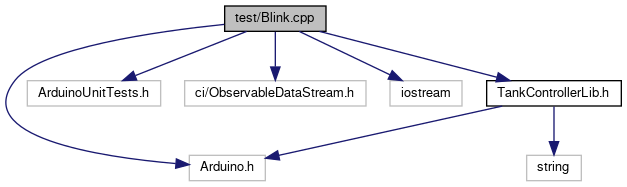
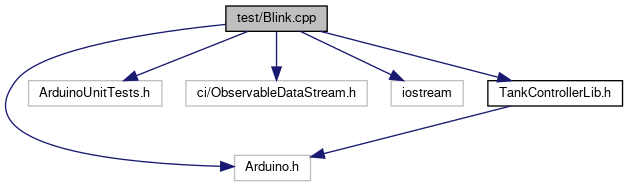
deploy: d337af90a0a18930b8e598829f15c8c1c02f8187

diff --git a/TankControllerLib_8h_source.html b/TankControllerLib_8h_source.html
@@ -72,37 +72,38 @@ $(function() {
 <div class="contents">
 <a href="TankControllerLib_8h.html">Go to the documentation of this file.</a><div class="fragment"><div class="line"><a name="l00001"></a><span class="lineno">    1</span>&#160;<span class="preprocessor">#pragma once</span></div>
 <div class="line"><a name="l00002"></a><span class="lineno">    2</span>&#160;<span class="preprocessor">#include &lt;Arduino.h&gt;</span></div>
-<div class="line"><a name="l00003"></a><span class="lineno">    3</span>&#160;<span class="preprocessor">#include &lt;string&gt;</span></div>
-<div class="line"><a name="l00004"></a><span class="lineno">    4</span>&#160; </div>
-<div class="line"><a name="l00005"></a><span class="lineno"><a class="line" href="TankControllerLib_8h.html#a1c6d5de492ac61ad29aec7aa9a436bbf">    5</a></span>&#160;<span class="preprocessor">#define VERSION &quot;0.3.0&quot;</span></div>
-<div class="line"><a name="l00006"></a><span class="lineno">    6</span>&#160; </div>
-<div class="line"><a name="l00007"></a><span class="lineno">    7</span>&#160;<span class="keyword">class </span><a class="code" href="classUIState.html">UIState</a>;</div>
-<div class="line"><a name="l00008"></a><span class="lineno"><a class="line" href="classTankControllerLib.html">    8</a></span>&#160;<span class="keyword">class </span><a class="code" href="classTankControllerLib.html">TankControllerLib</a> {</div>
-<div class="line"><a name="l00009"></a><span class="lineno">    9</span>&#160;<span class="keyword">public</span>:</div>
-<div class="line"><a name="l00010"></a><span class="lineno">   10</span>&#160;  <span class="keyword">static</span> <a class="code" href="classTankControllerLib.html">TankControllerLib</a>* <a class="code" href="classTankControllerLib.html#a287a4571ad0c8a9cbab60a3cc40f43b5">instance</a>();</div>
-<div class="line"><a name="l00011"></a><span class="lineno">   11</span>&#160;  <span class="keywordtype">void</span> <a class="code" href="classTankControllerLib.html#a0f09e0f0830a3c963a7a5f59f9696f51">setup</a>();</div>
-<div class="line"><a name="l00012"></a><span class="lineno">   12</span>&#160;  <span class="keywordtype">void</span> <a class="code" href="classTankControllerLib.html#a231e4bec233ac32a49745f4af710ffe3">loop</a>();</div>
-<div class="line"><a name="l00013"></a><span class="lineno"><a class="line" href="classTankControllerLib.html#a77f6fbf39e3cd906ac5aeec678826933">   13</a></span>&#160;  <span class="keyword">const</span> <span class="keywordtype">char</span>* <a class="code" href="classTankControllerLib.html#a77f6fbf39e3cd906ac5aeec678826933">version</a>() { <span class="keywordflow">return</span> <a class="code" href="TankControllerLib_8h.html#a1c6d5de492ac61ad29aec7aa9a436bbf">VERSION</a>; }</div>
-<div class="line"><a name="l00014"></a><span class="lineno">   14</span>&#160; </div>
-<div class="line"><a name="l00015"></a><span class="lineno">   15</span>&#160;<span class="keyword">protected</span>:</div>
-<div class="line"><a name="l00016"></a><span class="lineno">   16</span>&#160;  <a class="code" href="classTankControllerLib.html#a7e52554907b4441815af01b283f4b78d">TankControllerLib</a>();</div>
-<div class="line"><a name="l00017"></a><span class="lineno">   17</span>&#160;  <a class="code" href="classTankControllerLib.html#a99d78a90a4b6df7a9e2efc5dcc40c437">~TankControllerLib</a>();</div>
-<div class="line"><a name="l00018"></a><span class="lineno">   18</span>&#160; </div>
-<div class="line"><a name="l00019"></a><span class="lineno">   19</span>&#160;<span class="keyword">private</span>:</div>
-<div class="line"><a name="l00020"></a><span class="lineno"><a class="line" href="classTankControllerLib.html#adf7c80ee25b4c675db74bdddfb2eb7ad">   20</a></span>&#160;  <span class="keyword">friend</span> <span class="keyword">class </span><a class="code" href="classUIState.html">UIState</a>;</div>
-<div class="line"><a name="l00021"></a><span class="lineno">   21</span>&#160;  <span class="keywordtype">void</span> <a class="code" href="classTankControllerLib.html#a8be211379484e725d1bd58bed2e2c05f">changeState</a>(<a class="code" href="classUIState.html">UIState</a>* newState);</div>
-<div class="line"><a name="l00022"></a><span class="lineno"><a class="line" href="classTankControllerLib.html#ad25d907e4563baccf6449fc57108cec0">   22</a></span>&#160;  <a class="code" href="classUIState.html">UIState</a>* <a class="code" href="classTankControllerLib.html#ad25d907e4563baccf6449fc57108cec0">_state</a>;</div>
-<div class="line"><a name="l00023"></a><span class="lineno"><a class="line" href="classTankControllerLib.html#a9ed307a5bc670acdefa6faa2f6eb496c">   23</a></span>&#160;  <span class="keyword">static</span> <a class="code" href="classTankControllerLib.html">TankControllerLib</a>* <a class="code" href="classTankControllerLib.html#a9ed307a5bc670acdefa6faa2f6eb496c">_instance</a>;</div>
-<div class="line"><a name="l00024"></a><span class="lineno">   24</span>&#160;};</div>
+<div class="line"><a name="l00003"></a><span class="lineno">    3</span>&#160; </div>
+<div class="line"><a name="l00004"></a><span class="lineno"><a class="line" href="TankControllerLib_8h.html#a1c6d5de492ac61ad29aec7aa9a436bbf">    4</a></span>&#160;<span class="preprocessor">#define VERSION &quot;0.3.0&quot;</span></div>
+<div class="line"><a name="l00005"></a><span class="lineno">    5</span>&#160; </div>
+<div class="line"><a name="l00006"></a><span class="lineno">    6</span>&#160;<span class="keyword">class </span><a class="code" href="classUIState.html">UIState</a>;</div>
+<div class="line"><a name="l00007"></a><span class="lineno"><a class="line" href="classTankControllerLib.html">    7</a></span>&#160;<span class="keyword">class </span><a class="code" href="classTankControllerLib.html">TankControllerLib</a> {</div>
+<div class="line"><a name="l00008"></a><span class="lineno">    8</span>&#160;<span class="keyword">public</span>:</div>
+<div class="line"><a name="l00009"></a><span class="lineno">    9</span>&#160;  <span class="keyword">static</span> <a class="code" href="classTankControllerLib.html">TankControllerLib</a>* <a class="code" href="classTankControllerLib.html#a287a4571ad0c8a9cbab60a3cc40f43b5">instance</a>();</div>
+<div class="line"><a name="l00010"></a><span class="lineno">   10</span>&#160;  <span class="keywordtype">void</span> <a class="code" href="classTankControllerLib.html#a0f09e0f0830a3c963a7a5f59f9696f51">setup</a>();</div>
+<div class="line"><a name="l00011"></a><span class="lineno">   11</span>&#160;  <span class="keywordtype">void</span> <a class="code" href="classTankControllerLib.html#a231e4bec233ac32a49745f4af710ffe3">loop</a>();</div>
+<div class="line"><a name="l00012"></a><span class="lineno"><a class="line" href="classTankControllerLib.html#a77f6fbf39e3cd906ac5aeec678826933">   12</a></span>&#160;  <span class="keyword">const</span> <span class="keywordtype">char</span>* <a class="code" href="classTankControllerLib.html#a77f6fbf39e3cd906ac5aeec678826933">version</a>() {</div>
+<div class="line"><a name="l00013"></a><span class="lineno">   13</span>&#160;    <span class="keywordflow">return</span> <a class="code" href="TankControllerLib_8h.html#a1c6d5de492ac61ad29aec7aa9a436bbf">VERSION</a>;</div>
+<div class="line"><a name="l00014"></a><span class="lineno">   14</span>&#160;  }</div>
+<div class="line"><a name="l00015"></a><span class="lineno">   15</span>&#160; </div>
+<div class="line"><a name="l00016"></a><span class="lineno">   16</span>&#160;<span class="keyword">protected</span>:</div>
+<div class="line"><a name="l00017"></a><span class="lineno">   17</span>&#160;  <a class="code" href="classTankControllerLib.html#a7e52554907b4441815af01b283f4b78d">TankControllerLib</a>();</div>
+<div class="line"><a name="l00018"></a><span class="lineno">   18</span>&#160;  <a class="code" href="classTankControllerLib.html#a99d78a90a4b6df7a9e2efc5dcc40c437">~TankControllerLib</a>();</div>
+<div class="line"><a name="l00019"></a><span class="lineno">   19</span>&#160; </div>
+<div class="line"><a name="l00020"></a><span class="lineno">   20</span>&#160;<span class="keyword">private</span>:</div>
+<div class="line"><a name="l00021"></a><span class="lineno"><a class="line" href="classTankControllerLib.html#adf7c80ee25b4c675db74bdddfb2eb7ad">   21</a></span>&#160;  <span class="keyword">friend</span> <span class="keyword">class </span><a class="code" href="classUIState.html">UIState</a>;</div>
+<div class="line"><a name="l00022"></a><span class="lineno">   22</span>&#160;  <span class="keywordtype">void</span> <a class="code" href="classTankControllerLib.html#a8be211379484e725d1bd58bed2e2c05f">changeState</a>(<a class="code" href="classUIState.html">UIState</a>* newState);</div>
+<div class="line"><a name="l00023"></a><span class="lineno"><a class="line" href="classTankControllerLib.html#ad25d907e4563baccf6449fc57108cec0">   23</a></span>&#160;  <a class="code" href="classUIState.html">UIState</a>* <a class="code" href="classTankControllerLib.html#ad25d907e4563baccf6449fc57108cec0">_state</a>;</div>
+<div class="line"><a name="l00024"></a><span class="lineno"><a class="line" href="classTankControllerLib.html#a9ed307a5bc670acdefa6faa2f6eb496c">   24</a></span>&#160;  <span class="keyword">static</span> <a class="code" href="classTankControllerLib.html">TankControllerLib</a>* <a class="code" href="classTankControllerLib.html#a9ed307a5bc670acdefa6faa2f6eb496c">_instance</a>;</div>
+<div class="line"><a name="l00025"></a><span class="lineno">   25</span>&#160;};</div>
 </div><!-- fragment --></div><!-- contents -->
 <div class="ttc" id="aclassTankControllerLib_html_a8be211379484e725d1bd58bed2e2c05f"><div class="ttname"><a href="classTankControllerLib.html#a8be211379484e725d1bd58bed2e2c05f">TankControllerLib::changeState</a></div><div class="ttdeci">void changeState(UIState *newState)</div><div class="ttdef"><b>Definition:</b> <a href="TankControllerLib_8cpp_source.html#l00056">TankControllerLib.cpp:56</a></div></div>
 <div class="ttc" id="aclassTankControllerLib_html_a287a4571ad0c8a9cbab60a3cc40f43b5"><div class="ttname"><a href="classTankControllerLib.html#a287a4571ad0c8a9cbab60a3cc40f43b5">TankControllerLib::instance</a></div><div class="ttdeci">static TankControllerLib * instance()</div><div class="ttdef"><b>Definition:</b> <a href="TankControllerLib_8cpp_source.html#l00014">TankControllerLib.cpp:14</a></div></div>
-<div class="ttc" id="aclassTankControllerLib_html_a9ed307a5bc670acdefa6faa2f6eb496c"><div class="ttname"><a href="classTankControllerLib.html#a9ed307a5bc670acdefa6faa2f6eb496c">TankControllerLib::_instance</a></div><div class="ttdeci">static TankControllerLib * _instance</div><div class="ttdef"><b>Definition:</b> <a href="TankControllerLib_8h_source.html#l00023">TankControllerLib.h:23</a></div></div>
-<div class="ttc" id="aTankControllerLib_8h_html_a1c6d5de492ac61ad29aec7aa9a436bbf"><div class="ttname"><a href="TankControllerLib_8h.html#a1c6d5de492ac61ad29aec7aa9a436bbf">VERSION</a></div><div class="ttdeci">#define VERSION</div><div class="ttdef"><b>Definition:</b> <a href="TankControllerLib_8h_source.html#l00005">TankControllerLib.h:5</a></div></div>
-<div class="ttc" id="aclassTankControllerLib_html"><div class="ttname"><a href="classTankControllerLib.html">TankControllerLib</a></div><div class="ttdef"><b>Definition:</b> <a href="TankControllerLib_8h_source.html#l00008">TankControllerLib.h:8</a></div></div>
+<div class="ttc" id="aclassTankControllerLib_html_a9ed307a5bc670acdefa6faa2f6eb496c"><div class="ttname"><a href="classTankControllerLib.html#a9ed307a5bc670acdefa6faa2f6eb496c">TankControllerLib::_instance</a></div><div class="ttdeci">static TankControllerLib * _instance</div><div class="ttdef"><b>Definition:</b> <a href="TankControllerLib_8h_source.html#l00024">TankControllerLib.h:24</a></div></div>
+<div class="ttc" id="aTankControllerLib_8h_html_a1c6d5de492ac61ad29aec7aa9a436bbf"><div class="ttname"><a href="TankControllerLib_8h.html#a1c6d5de492ac61ad29aec7aa9a436bbf">VERSION</a></div><div class="ttdeci">#define VERSION</div><div class="ttdef"><b>Definition:</b> <a href="TankControllerLib_8h_source.html#l00004">TankControllerLib.h:4</a></div></div>
+<div class="ttc" id="aclassTankControllerLib_html"><div class="ttname"><a href="classTankControllerLib.html">TankControllerLib</a></div><div class="ttdef"><b>Definition:</b> <a href="TankControllerLib_8h_source.html#l00007">TankControllerLib.h:7</a></div></div>
 <div class="ttc" id="aclassTankControllerLib_html_a0f09e0f0830a3c963a7a5f59f9696f51"><div class="ttname"><a href="classTankControllerLib.html#a0f09e0f0830a3c963a7a5f59f9696f51">TankControllerLib::setup</a></div><div class="ttdeci">void setup()</div><div class="ttdef"><b>Definition:</b> <a href="TankControllerLib_8cpp_source.html#l00032">TankControllerLib.cpp:32</a></div></div>
-<div class="ttc" id="aclassTankControllerLib_html_a77f6fbf39e3cd906ac5aeec678826933"><div class="ttname"><a href="classTankControllerLib.html#a77f6fbf39e3cd906ac5aeec678826933">TankControllerLib::version</a></div><div class="ttdeci">const char * version()</div><div class="ttdef"><b>Definition:</b> <a href="TankControllerLib_8h_source.html#l00013">TankControllerLib.h:13</a></div></div>
-<div class="ttc" id="aclassTankControllerLib_html_ad25d907e4563baccf6449fc57108cec0"><div class="ttname"><a href="classTankControllerLib.html#ad25d907e4563baccf6449fc57108cec0">TankControllerLib::_state</a></div><div class="ttdeci">UIState * _state</div><div class="ttdef"><b>Definition:</b> <a href="TankControllerLib_8h_source.html#l00022">TankControllerLib.h:22</a></div></div>
+<div class="ttc" id="aclassTankControllerLib_html_a77f6fbf39e3cd906ac5aeec678826933"><div class="ttname"><a href="classTankControllerLib.html#a77f6fbf39e3cd906ac5aeec678826933">TankControllerLib::version</a></div><div class="ttdeci">const char * version()</div><div class="ttdef"><b>Definition:</b> <a href="TankControllerLib_8h_source.html#l00012">TankControllerLib.h:12</a></div></div>
+<div class="ttc" id="aclassTankControllerLib_html_ad25d907e4563baccf6449fc57108cec0"><div class="ttname"><a href="classTankControllerLib.html#ad25d907e4563baccf6449fc57108cec0">TankControllerLib::_state</a></div><div class="ttdeci">UIState * _state</div><div class="ttdef"><b>Definition:</b> <a href="TankControllerLib_8h_source.html#l00023">TankControllerLib.h:23</a></div></div>
 <div class="ttc" id="aclassTankControllerLib_html_a231e4bec233ac32a49745f4af710ffe3"><div class="ttname"><a href="classTankControllerLib.html#a231e4bec233ac32a49745f4af710ffe3">TankControllerLib::loop</a></div><div class="ttdeci">void loop()</div><div class="ttdef"><b>Definition:</b> <a href="TankControllerLib_8cpp_source.html#l00046">TankControllerLib.cpp:46</a></div></div>
 <div class="ttc" id="aclassUIState_html"><div class="ttname"><a href="classUIState.html">UIState</a></div><div class="ttdef"><b>Definition:</b> <a href="UIState_8h_source.html#l00010">UIState.h:10</a></div></div>
 <div class="ttc" id="aclassTankControllerLib_html_a99d78a90a4b6df7a9e2efc5dcc40c437"><div class="ttname"><a href="classTankControllerLib.html#a99d78a90a4b6df7a9e2efc5dcc40c437">TankControllerLib::~TankControllerLib</a></div><div class="ttdeci">~TankControllerLib()</div><div class="ttdef"><b>Definition:</b> <a href="TankControllerLib_8cpp_source.html#l00026">TankControllerLib.cpp:26</a></div></div>

diff --git a/classTankControllerLib.html b/classTankControllerLib.html
@@ -130,7 +130,7 @@ Friends</h2></td></tr>
 </table>
 <a name="details" id="details"></a><h2 class="groupheader">Detailed Description</h2>
 <div class="textblock">
-<p class="definition">Definition at line <a class="el" href="TankControllerLib_8h_source.html#l00008">8</a> of file <a class="el" href="TankControllerLib_8h_source.html">TankControllerLib.h</a>.</p>
+<p class="definition">Definition at line <a class="el" href="TankControllerLib_8h_source.html#l00007">7</a> of file <a class="el" href="TankControllerLib_8h_source.html">TankControllerLib.h</a>.</p>
 </div><h2 class="groupheader">Constructor &amp; Destructor Documentation</h2>
 <a id="a7e52554907b4441815af01b283f4b78d"></a>
 <h2 class="memtitle"><span class="permalink"><a href="#a7e52554907b4441815af01b283f4b78d">&#9670;&nbsp;</a></span>TankControllerLib()</h2>
@@ -161,7 +161,7 @@ Friends</h2></td></tr>
 <div class="line"><a name="l00023"></a><span class="lineno">   23</span>&#160;  <a class="code" href="classTankControllerLib.html#ad25d907e4563baccf6449fc57108cec0">_state</a> = <span class="keyword">nullptr</span>;</div>
 <div class="line"><a name="l00024"></a><span class="lineno">   24</span>&#160;}</div>
 </div><!-- fragment -->
-<p class="reference">References <a class="el" href="TankControllerLib_8h_source.html#l00023">_instance</a>, <a class="el" href="TankControllerLib_8h_source.html#l00022">_state</a>, and <a class="el" href="TankControllerLib_8cpp_source.html#l00006">assert</a>.</p>
+<p class="reference">References <a class="el" href="TankControllerLib_8h_source.html#l00024">_instance</a>, <a class="el" href="TankControllerLib_8h_source.html#l00023">_state</a>, and <a class="el" href="TankControllerLib_8cpp_source.html#l00006">assert</a>.</p>
 
 <p class="reference">Referenced by <a class="el" href="TankControllerLib_8cpp_source.html#l00014">instance()</a>.</p>
 
@@ -197,7 +197,7 @@ Friends</h2></td></tr>
 <div class="line"><a name="l00029"></a><span class="lineno">   29</span>&#160;  <a class="code" href="classTankControllerLib.html#a9ed307a5bc670acdefa6faa2f6eb496c">_instance</a> = <span class="keyword">nullptr</span>;</div>
 <div class="line"><a name="l00030"></a><span class="lineno">   30</span>&#160;}</div>
 </div><!-- fragment -->
-<p class="reference">References <a class="el" href="TankControllerLib_8h_source.html#l00023">_instance</a>, <a class="el" href="TankControllerLib_8cpp_source.html#l00006">assert</a>, and <a class="el" href="TankControllerLib_8cpp_source.html#l00056">changeState()</a>.</p>
+<p class="reference">References <a class="el" href="TankControllerLib_8h_source.html#l00024">_instance</a>, <a class="el" href="TankControllerLib_8cpp_source.html#l00006">assert</a>, and <a class="el" href="TankControllerLib_8cpp_source.html#l00056">changeState()</a>.</p>
 
 </div>
 </div>
@@ -234,7 +234,7 @@ Friends</h2></td></tr>
 <div class="line"><a name="l00060"></a><span class="lineno">   60</span>&#160;  <a class="code" href="classTankControllerLib.html#ad25d907e4563baccf6449fc57108cec0">_state</a> = newState;</div>
 <div class="line"><a name="l00061"></a><span class="lineno">   61</span>&#160;}</div>
 </div><!-- fragment -->
-<p class="reference">References <a class="el" href="TankControllerLib_8h_source.html#l00022">_state</a>.</p>
+<p class="reference">References <a class="el" href="TankControllerLib_8h_source.html#l00023">_state</a>.</p>
 
 <p class="reference">Referenced by <a class="el" href="UIState_8h_source.html#l00019">UIState::changeState()</a>, <a class="el" href="TankControllerLib_8cpp_source.html#l00032">setup()</a>, and <a class="el" href="TankControllerLib_8cpp_source.html#l00026">~TankControllerLib()</a>.</p>
 
@@ -271,7 +271,7 @@ Friends</h2></td></tr>
 <div class="line"><a name="l00018"></a><span class="lineno">   18</span>&#160;  <span class="keywordflow">return</span> <a class="code" href="classTankControllerLib.html#a9ed307a5bc670acdefa6faa2f6eb496c">_instance</a>;</div>
 <div class="line"><a name="l00019"></a><span class="lineno">   19</span>&#160;}</div>
 </div><!-- fragment -->
-<p class="reference">References <a class="el" href="TankControllerLib_8h_source.html#l00023">_instance</a>, and <a class="el" href="TankControllerLib_8cpp_source.html#l00021">TankControllerLib()</a>.</p>
+<p class="reference">References <a class="el" href="TankControllerLib_8h_source.html#l00024">_instance</a>, and <a class="el" href="TankControllerLib_8cpp_source.html#l00021">TankControllerLib()</a>.</p>
 
 <p class="reference">Referenced by <a class="el" href="UIState_8h_source.html#l00019">UIState::changeState()</a>, and <a class="el" href="Blink_8cpp_source.html#l00040">unittest()</a>.</p>
 
@@ -303,7 +303,7 @@ Friends</h2></td></tr>
 <div class="line"><a name="l00053"></a><span class="lineno">   53</span>&#160;  }</div>
 <div class="line"><a name="l00054"></a><span class="lineno">   54</span>&#160;}</div>
 </div><!-- fragment -->
-<p class="reference">References <a class="el" href="TankControllerLib_8h_source.html#l00022">_state</a>, <a class="el" href="TankControllerLib_8cpp_source.html#l00037">blink()</a>, <a class="el" href="classUIState.html#ac53ca2b64f05c381f4d68f68fd60c91b">UIState::handleKey()</a>, and <a class="el" href="TankControllerLib_8cpp_source.html#l00045">NO_KEY</a>.</p>
+<p class="reference">References <a class="el" href="TankControllerLib_8h_source.html#l00023">_state</a>, <a class="el" href="TankControllerLib_8cpp_source.html#l00037">blink()</a>, <a class="el" href="classUIState.html#ac53ca2b64f05c381f4d68f68fd60c91b">UIState::handleKey()</a>, and <a class="el" href="TankControllerLib_8cpp_source.html#l00045">NO_KEY</a>.</p>
 
 <p class="reference">Referenced by <a class="el" href="Blink_8cpp_source.html#l00040">unittest()</a>.</p>
 
@@ -359,10 +359,12 @@ Friends</h2></td></tr>
 </table>
 </div><div class="memdoc">
 
-<p class="definition">Definition at line <a class="el" href="TankControllerLib_8h_source.html#l00013">13</a> of file <a class="el" href="TankControllerLib_8h_source.html">TankControllerLib.h</a>.</p>
-<div class="fragment"><div class="line"><a name="l00013"></a><span class="lineno">   13</span>&#160;{ <span class="keywordflow">return</span> <a class="code" href="TankControllerLib_8h.html#a1c6d5de492ac61ad29aec7aa9a436bbf">VERSION</a>; }</div>
+<p class="definition">Definition at line <a class="el" href="TankControllerLib_8h_source.html#l00012">12</a> of file <a class="el" href="TankControllerLib_8h_source.html">TankControllerLib.h</a>.</p>
+<div class="fragment"><div class="line"><a name="l00012"></a><span class="lineno">   12</span>&#160;                        {</div>
+<div class="line"><a name="l00013"></a><span class="lineno">   13</span>&#160;    <span class="keywordflow">return</span> <a class="code" href="TankControllerLib_8h.html#a1c6d5de492ac61ad29aec7aa9a436bbf">VERSION</a>;</div>
+<div class="line"><a name="l00014"></a><span class="lineno">   14</span>&#160;  }</div>
 </div><!-- fragment -->
-<p class="reference">References <a class="el" href="TankControllerLib_8h_source.html#l00005">VERSION</a>.</p>
+<p class="reference">References <a class="el" href="TankControllerLib_8h_source.html#l00004">VERSION</a>.</p>
 
 </div>
 </div>
@@ -387,7 +389,7 @@ Friends</h2></td></tr>
 </table>
 </div><div class="memdoc">
 
-<p class="definition">Definition at line <a class="el" href="TankControllerLib_8h_source.html#l00020">20</a> of file <a class="el" href="TankControllerLib_8h_source.html">TankControllerLib.h</a>.</p>
+<p class="definition">Definition at line <a class="el" href="TankControllerLib_8h_source.html#l00021">21</a> of file <a class="el" href="TankControllerLib_8h_source.html">TankControllerLib.h</a>.</p>
 
 </div>
 </div>
@@ -412,7 +414,7 @@ Friends</h2></td></tr>
 </table>
 </div><div class="memdoc">
 
-<p class="definition">Definition at line <a class="el" href="TankControllerLib_8h_source.html#l00023">23</a> of file <a class="el" href="TankControllerLib_8h_source.html">TankControllerLib.h</a>.</p>
+<p class="definition">Definition at line <a class="el" href="TankControllerLib_8h_source.html#l00024">24</a> of file <a class="el" href="TankControllerLib_8h_source.html">TankControllerLib.h</a>.</p>
 
 <p class="reference">Referenced by <a class="el" href="TankControllerLib_8cpp_source.html#l00014">instance()</a>, <a class="el" href="TankControllerLib_8cpp_source.html#l00021">TankControllerLib()</a>, and <a class="el" href="TankControllerLib_8cpp_source.html#l00026">~TankControllerLib()</a>.</p>
 
@@ -438,7 +440,7 @@ Friends</h2></td></tr>
 </table>
 </div><div class="memdoc">
 
-<p class="definition">Definition at line <a class="el" href="TankControllerLib_8h_source.html#l00022">22</a> of file <a class="el" href="TankControllerLib_8h_source.html">TankControllerLib.h</a>.</p>
+<p class="definition">Definition at line <a class="el" href="TankControllerLib_8h_source.html#l00023">23</a> of file <a class="el" href="TankControllerLib_8h_source.html">TankControllerLib.h</a>.</p>
 
 <p class="reference">Referenced by <a class="el" href="TankControllerLib_8cpp_source.html#l00056">changeState()</a>, <a class="el" href="TankControllerLib_8cpp_source.html#l00046">loop()</a>, and <a class="el" href="TankControllerLib_8cpp_source.html#l00021">TankControllerLib()</a>.</p>
 
@@ -450,12 +452,12 @@ Friends</h2></td></tr>
 </ul>
 </div><!-- contents -->
 <div class="ttc" id="aclassTankControllerLib_html_a8be211379484e725d1bd58bed2e2c05f"><div class="ttname"><a href="classTankControllerLib.html#a8be211379484e725d1bd58bed2e2c05f">TankControllerLib::changeState</a></div><div class="ttdeci">void changeState(UIState *newState)</div><div class="ttdef"><b>Definition:</b> <a href="TankControllerLib_8cpp_source.html#l00056">TankControllerLib.cpp:56</a></div></div>
-<div class="ttc" id="aclassTankControllerLib_html_a9ed307a5bc670acdefa6faa2f6eb496c"><div class="ttname"><a href="classTankControllerLib.html#a9ed307a5bc670acdefa6faa2f6eb496c">TankControllerLib::_instance</a></div><div class="ttdeci">static TankControllerLib * _instance</div><div class="ttdef"><b>Definition:</b> <a href="TankControllerLib_8h_source.html#l00023">TankControllerLib.h:23</a></div></div>
-<div class="ttc" id="aTankControllerLib_8h_html_a1c6d5de492ac61ad29aec7aa9a436bbf"><div class="ttname"><a href="TankControllerLib_8h.html#a1c6d5de492ac61ad29aec7aa9a436bbf">VERSION</a></div><div class="ttdeci">#define VERSION</div><div class="ttdef"><b>Definition:</b> <a href="TankControllerLib_8h_source.html#l00005">TankControllerLib.h:5</a></div></div>
+<div class="ttc" id="aclassTankControllerLib_html_a9ed307a5bc670acdefa6faa2f6eb496c"><div class="ttname"><a href="classTankControllerLib.html#a9ed307a5bc670acdefa6faa2f6eb496c">TankControllerLib::_instance</a></div><div class="ttdeci">static TankControllerLib * _instance</div><div class="ttdef"><b>Definition:</b> <a href="TankControllerLib_8h_source.html#l00024">TankControllerLib.h:24</a></div></div>
+<div class="ttc" id="aTankControllerLib_8h_html_a1c6d5de492ac61ad29aec7aa9a436bbf"><div class="ttname"><a href="TankControllerLib_8h.html#a1c6d5de492ac61ad29aec7aa9a436bbf">VERSION</a></div><div class="ttdeci">#define VERSION</div><div class="ttdef"><b>Definition:</b> <a href="TankControllerLib_8h_source.html#l00004">TankControllerLib.h:4</a></div></div>
 <div class="ttc" id="aTankControllerLib_8cpp_html_ae6b1e771ae3afc297ec85b5137b1bfb1"><div class="ttname"><a href="TankControllerLib_8cpp.html#ae6b1e771ae3afc297ec85b5137b1bfb1">NO_KEY</a></div><div class="ttdeci">#define NO_KEY</div><div class="ttdef"><b>Definition:</b> <a href="TankControllerLib_8cpp_source.html#l00045">TankControllerLib.cpp:45</a></div></div>
 <div class="ttc" id="aclassMainMenu_html"><div class="ttname"><a href="classMainMenu.html">MainMenu</a></div><div class="ttdef"><b>Definition:</b> <a href="MainMenu_8h_source.html#l00012">MainMenu.h:12</a></div></div>
 <div class="ttc" id="aclassUIState_html_ac53ca2b64f05c381f4d68f68fd60c91b"><div class="ttname"><a href="classUIState.html#ac53ca2b64f05c381f4d68f68fd60c91b">UIState::handleKey</a></div><div class="ttdeci">virtual void handleKey(char key)=0</div></div>
-<div class="ttc" id="aclassTankControllerLib_html_ad25d907e4563baccf6449fc57108cec0"><div class="ttname"><a href="classTankControllerLib.html#ad25d907e4563baccf6449fc57108cec0">TankControllerLib::_state</a></div><div class="ttdeci">UIState * _state</div><div class="ttdef"><b>Definition:</b> <a href="TankControllerLib_8h_source.html#l00022">TankControllerLib.h:22</a></div></div>
+<div class="ttc" id="aclassTankControllerLib_html_ad25d907e4563baccf6449fc57108cec0"><div class="ttname"><a href="classTankControllerLib.html#ad25d907e4563baccf6449fc57108cec0">TankControllerLib::_state</a></div><div class="ttdeci">UIState * _state</div><div class="ttdef"><b>Definition:</b> <a href="TankControllerLib_8h_source.html#l00023">TankControllerLib.h:23</a></div></div>
 <div class="ttc" id="aTankControllerLib_8cpp_html_a5664bd38fc668253a0152e6b319aafbb"><div class="ttname"><a href="TankControllerLib_8cpp.html#a5664bd38fc668253a0152e6b319aafbb">blink</a></div><div class="ttdeci">void blink()</div><div class="ttdef"><b>Definition:</b> <a href="TankControllerLib_8cpp_source.html#l00037">TankControllerLib.cpp:37</a></div></div>
 <div class="ttc" id="aTankControllerLib_8cpp_html_ae62a1773f22b7a2f5635c7497269cd39"><div class="ttname"><a href="TankControllerLib_8cpp.html#ae62a1773f22b7a2f5635c7497269cd39">assert</a></div><div class="ttdeci">#define assert(p)</div><div class="ttdef"><b>Definition:</b> <a href="TankControllerLib_8cpp_source.html#l00006">TankControllerLib.cpp:6</a></div></div>
 <div class="ttc" id="aclassUIState_html"><div class="ttname"><a href="classUIState.html">UIState</a></div><div class="ttdef"><b>Definition:</b> <a href="UIState_8h_source.html#l00010">UIState.h:10</a></div></div>

diff --git a/TankControllerLib_8cpp_source.html b/TankControllerLib_8cpp_source.html
@@ -134,16 +134,16 @@ $(function() {
 </div><!-- fragment --></div><!-- contents -->
 <div class="ttc" id="aclassTankControllerLib_html_a8be211379484e725d1bd58bed2e2c05f"><div class="ttname"><a href="classTankControllerLib.html#a8be211379484e725d1bd58bed2e2c05f">TankControllerLib::changeState</a></div><div class="ttdeci">void changeState(UIState *newState)</div><div class="ttdef"><b>Definition:</b> <a href="TankControllerLib_8cpp_source.html#l00056">TankControllerLib.cpp:56</a></div></div>
 <div class="ttc" id="aclassTankControllerLib_html_a287a4571ad0c8a9cbab60a3cc40f43b5"><div class="ttname"><a href="classTankControllerLib.html#a287a4571ad0c8a9cbab60a3cc40f43b5">TankControllerLib::instance</a></div><div class="ttdeci">static TankControllerLib * instance()</div><div class="ttdef"><b>Definition:</b> <a href="TankControllerLib_8cpp_source.html#l00014">TankControllerLib.cpp:14</a></div></div>
-<div class="ttc" id="aclassTankControllerLib_html_a9ed307a5bc670acdefa6faa2f6eb496c"><div class="ttname"><a href="classTankControllerLib.html#a9ed307a5bc670acdefa6faa2f6eb496c">TankControllerLib::_instance</a></div><div class="ttdeci">static TankControllerLib * _instance</div><div class="ttdef"><b>Definition:</b> <a href="TankControllerLib_8h_source.html#l00023">TankControllerLib.h:23</a></div></div>
+<div class="ttc" id="aclassTankControllerLib_html_a9ed307a5bc670acdefa6faa2f6eb496c"><div class="ttname"><a href="classTankControllerLib.html#a9ed307a5bc670acdefa6faa2f6eb496c">TankControllerLib::_instance</a></div><div class="ttdeci">static TankControllerLib * _instance</div><div class="ttdef"><b>Definition:</b> <a href="TankControllerLib_8h_source.html#l00024">TankControllerLib.h:24</a></div></div>
 <div class="ttc" id="aUIState_8h_html"><div class="ttname"><a href="UIState_8h.html">UIState.h</a></div></div>
 <div class="ttc" id="aMainMenu_8h_html"><div class="ttname"><a href="MainMenu_8h.html">MainMenu.h</a></div></div>
-<div class="ttc" id="aclassTankControllerLib_html"><div class="ttname"><a href="classTankControllerLib.html">TankControllerLib</a></div><div class="ttdef"><b>Definition:</b> <a href="TankControllerLib_8h_source.html#l00008">TankControllerLib.h:8</a></div></div>
+<div class="ttc" id="aclassTankControllerLib_html"><div class="ttname"><a href="classTankControllerLib.html">TankControllerLib</a></div><div class="ttdef"><b>Definition:</b> <a href="TankControllerLib_8h_source.html#l00007">TankControllerLib.h:7</a></div></div>
 <div class="ttc" id="aTankControllerLib_8h_html"><div class="ttname"><a href="TankControllerLib_8h.html">TankControllerLib.h</a></div></div>
 <div class="ttc" id="aclassTankControllerLib_html_a0f09e0f0830a3c963a7a5f59f9696f51"><div class="ttname"><a href="classTankControllerLib.html#a0f09e0f0830a3c963a7a5f59f9696f51">TankControllerLib::setup</a></div><div class="ttdeci">void setup()</div><div class="ttdef"><b>Definition:</b> <a href="TankControllerLib_8cpp_source.html#l00032">TankControllerLib.cpp:32</a></div></div>
 <div class="ttc" id="aTankControllerLib_8cpp_html_ae6b1e771ae3afc297ec85b5137b1bfb1"><div class="ttname"><a href="TankControllerLib_8cpp.html#ae6b1e771ae3afc297ec85b5137b1bfb1">NO_KEY</a></div><div class="ttdeci">#define NO_KEY</div><div class="ttdef"><b>Definition:</b> <a href="TankControllerLib_8cpp_source.html#l00045">TankControllerLib.cpp:45</a></div></div>
 <div class="ttc" id="aclassMainMenu_html"><div class="ttname"><a href="classMainMenu.html">MainMenu</a></div><div class="ttdef"><b>Definition:</b> <a href="MainMenu_8h_source.html#l00012">MainMenu.h:12</a></div></div>
 <div class="ttc" id="aclassUIState_html_ac53ca2b64f05c381f4d68f68fd60c91b"><div class="ttname"><a href="classUIState.html#ac53ca2b64f05c381f4d68f68fd60c91b">UIState::handleKey</a></div><div class="ttdeci">virtual void handleKey(char key)=0</div></div>
-<div class="ttc" id="aclassTankControllerLib_html_ad25d907e4563baccf6449fc57108cec0"><div class="ttname"><a href="classTankControllerLib.html#ad25d907e4563baccf6449fc57108cec0">TankControllerLib::_state</a></div><div class="ttdeci">UIState * _state</div><div class="ttdef"><b>Definition:</b> <a href="TankControllerLib_8h_source.html#l00022">TankControllerLib.h:22</a></div></div>
+<div class="ttc" id="aclassTankControllerLib_html_ad25d907e4563baccf6449fc57108cec0"><div class="ttname"><a href="classTankControllerLib.html#ad25d907e4563baccf6449fc57108cec0">TankControllerLib::_state</a></div><div class="ttdeci">UIState * _state</div><div class="ttdef"><b>Definition:</b> <a href="TankControllerLib_8h_source.html#l00023">TankControllerLib.h:23</a></div></div>
 <div class="ttc" id="aTankControllerLib_8cpp_html_a5664bd38fc668253a0152e6b319aafbb"><div class="ttname"><a href="TankControllerLib_8cpp.html#a5664bd38fc668253a0152e6b319aafbb">blink</a></div><div class="ttdeci">void blink()</div><div class="ttdef"><b>Definition:</b> <a href="TankControllerLib_8cpp_source.html#l00037">TankControllerLib.cpp:37</a></div></div>
 <div class="ttc" id="aclassTankControllerLib_html_a231e4bec233ac32a49745f4af710ffe3"><div class="ttname"><a href="classTankControllerLib.html#a231e4bec233ac32a49745f4af710ffe3">TankControllerLib::loop</a></div><div class="ttdeci">void loop()</div><div class="ttdef"><b>Definition:</b> <a href="TankControllerLib_8cpp_source.html#l00046">TankControllerLib.cpp:46</a></div></div>
 <div class="ttc" id="aTankControllerLib_8cpp_html_ae62a1773f22b7a2f5635c7497269cd39"><div class="ttname"><a href="TankControllerLib_8cpp.html#ae62a1773f22b7a2f5635c7497269cd39">assert</a></div><div class="ttdeci">#define assert(p)</div><div class="ttdef"><b>Definition:</b> <a href="TankControllerLib_8cpp_source.html#l00006">TankControllerLib.cpp:6</a></div></div>

diff --git a/Blink_8cpp.html b/Blink_8cpp.html
@@ -85,13 +85,12 @@ Include dependency graph for Blink.cpp:</div>
 <div class="dyncontent">
 <div class="center"><img src="Blink_8cpp__incl.png" border="0" usemap="#atest_2Blink_8cpp" alt=""/></div>
 <map name="test_2Blink_8cpp" id="atest_2Blink_8cpp">
-<area shape="rect" title=" " alt="" coords="225,5,326,32"/>
-<area shape="rect" title=" " alt="" coords="189,155,265,181"/>
-<area shape="rect" title=" " alt="" coords="27,80,161,107"/>
-<area shape="rect" title=" " alt="" coords="185,80,366,107"/>
-<area shape="rect" title=" " alt="" coords="390,80,462,107"/>
-<area shape="rect" href="TankControllerLib_8h.html" title=" " alt="" coords="487,80,621,107"/>
-<area shape="rect" title=" " alt="" coords="527,155,581,181"/>
+<area shape="rect" title=" " alt="" coords="226,5,327,32"/>
+<area shape="rect" title=" " alt="" coords="235,155,311,181"/>
+<area shape="rect" title=" " alt="" coords="29,80,162,107"/>
+<area shape="rect" title=" " alt="" coords="186,80,367,107"/>
+<area shape="rect" title=" " alt="" coords="391,80,463,107"/>
+<area shape="rect" href="TankControllerLib_8h.html" title=" " alt="" coords="488,80,623,107"/>
 </map>
 </div>
 </div>
@@ -326,7 +325,7 @@ Variables</h2></td></tr>
 <div class="ttc" id="aBlink_8cpp_html_a0376be5904d0dd864b7d97c9ce1295ab"><div class="ttname"><a href="Blink_8cpp.html#a0376be5904d0dd864b7d97c9ce1295ab">value</a></div><div class="ttdeci">bool value</div><div class="ttdef"><b>Definition:</b> <a href="Blink_8cpp_source.html#l00015">Blink.cpp:15</a></div></div>
 <div class="ttc" id="aclassTankControllerLib_html_a287a4571ad0c8a9cbab60a3cc40f43b5"><div class="ttname"><a href="classTankControllerLib.html#a287a4571ad0c8a9cbab60a3cc40f43b5">TankControllerLib::instance</a></div><div class="ttdeci">static TankControllerLib * instance()</div><div class="ttdef"><b>Definition:</b> <a href="TankControllerLib_8cpp_source.html#l00014">TankControllerLib.cpp:14</a></div></div>
 <div class="ttc" id="aBlink_8cpp_html_a43e5081a12570bf32bc5c52fff9abe24"><div class="ttname"><a href="Blink_8cpp.html#a43e5081a12570bf32bc5c52fff9abe24">overflowFlag</a></div><div class="ttdeci">bool overflowFlag</div><div class="ttdef"><b>Definition:</b> <a href="Blink_8cpp_source.html#l00018">Blink.cpp:18</a></div></div>
-<div class="ttc" id="aclassTankControllerLib_html"><div class="ttname"><a href="classTankControllerLib.html">TankControllerLib</a></div><div class="ttdef"><b>Definition:</b> <a href="TankControllerLib_8h_source.html#l00008">TankControllerLib.h:8</a></div></div>
+<div class="ttc" id="aclassTankControllerLib_html"><div class="ttname"><a href="classTankControllerLib.html">TankControllerLib</a></div><div class="ttdef"><b>Definition:</b> <a href="TankControllerLib_8h_source.html#l00007">TankControllerLib.h:7</a></div></div>
 <div class="ttc" id="aclassTankControllerLib_html_a0f09e0f0830a3c963a7a5f59f9696f51"><div class="ttname"><a href="classTankControllerLib.html#a0f09e0f0830a3c963a7a5f59f9696f51">TankControllerLib::setup</a></div><div class="ttdeci">void setup()</div><div class="ttdef"><b>Definition:</b> <a href="TankControllerLib_8cpp_source.html#l00032">TankControllerLib.cpp:32</a></div></div>
 <div class="ttc" id="aBlink_8cpp_html_a1122a0f42fcd5680fe620949e6ee936a"><div class="ttname"><a href="Blink_8cpp.html#a1122a0f42fcd5680fe620949e6ee936a">state</a></div><div class="ttdeci">GodmodeState * state</div><div class="ttdef"><b>Definition:</b> <a href="Blink_8cpp_source.html#l00011">Blink.cpp:11</a></div></div>
 <div class="ttc" id="aclassBitCollector_html"><div class="ttname"><a href="classBitCollector.html">BitCollector</a></div><div class="ttdef"><b>Definition:</b> <a href="Blink_8cpp_source.html#l00020">Blink.cpp:20</a></div></div>

diff --git a/Blink_8cpp_source.html b/Blink_8cpp_source.html
@@ -143,7 +143,7 @@ $(function() {
 <div class="ttc" id="aclassTankControllerLib_html_a287a4571ad0c8a9cbab60a3cc40f43b5"><div class="ttname"><a href="classTankControllerLib.html#a287a4571ad0c8a9cbab60a3cc40f43b5">TankControllerLib::instance</a></div><div class="ttdeci">static TankControllerLib * instance()</div><div class="ttdef"><b>Definition:</b> <a href="TankControllerLib_8cpp_source.html#l00014">TankControllerLib.cpp:14</a></div></div>
 <div class="ttc" id="aBlink_8cpp_html_acefee82212a219c11c0278230cc96136"><div class="ttname"><a href="Blink_8cpp.html#acefee82212a219c11c0278230cc96136">logSize</a></div><div class="ttdeci">const int logSize</div><div class="ttdef"><b>Definition:</b> <a href="Blink_8cpp_source.html#l00012">Blink.cpp:12</a></div></div>
 <div class="ttc" id="aBlink_8cpp_html_a43e5081a12570bf32bc5c52fff9abe24"><div class="ttname"><a href="Blink_8cpp.html#a43e5081a12570bf32bc5c52fff9abe24">overflowFlag</a></div><div class="ttdeci">bool overflowFlag</div><div class="ttdef"><b>Definition:</b> <a href="Blink_8cpp_source.html#l00018">Blink.cpp:18</a></div></div>
-<div class="ttc" id="aclassTankControllerLib_html"><div class="ttname"><a href="classTankControllerLib.html">TankControllerLib</a></div><div class="ttdef"><b>Definition:</b> <a href="TankControllerLib_8h_source.html#l00008">TankControllerLib.h:8</a></div></div>
+<div class="ttc" id="aclassTankControllerLib_html"><div class="ttname"><a href="classTankControllerLib.html">TankControllerLib</a></div><div class="ttdef"><b>Definition:</b> <a href="TankControllerLib_8h_source.html#l00007">TankControllerLib.h:7</a></div></div>
 <div class="ttc" id="aTankControllerLib_8h_html"><div class="ttname"><a href="TankControllerLib_8h.html">TankControllerLib.h</a></div></div>
 <div class="ttc" id="aclassTankControllerLib_html_a0f09e0f0830a3c963a7a5f59f9696f51"><div class="ttname"><a href="classTankControllerLib.html#a0f09e0f0830a3c963a7a5f59f9696f51">TankControllerLib::setup</a></div><div class="ttdeci">void setup()</div><div class="ttdef"><b>Definition:</b> <a href="TankControllerLib_8cpp_source.html#l00032">TankControllerLib.cpp:32</a></div></div>
 <div class="ttc" id="aBlink_8cpp_html_a1122a0f42fcd5680fe620949e6ee936a"><div class="ttname"><a href="Blink_8cpp.html#a1122a0f42fcd5680fe620949e6ee936a">state</a></div><div class="ttdeci">GodmodeState * state</div><div class="ttdef"><b>Definition:</b> <a href="Blink_8cpp_source.html#l00011">Blink.cpp:11</a></div></div>

diff --git a/TankControllerLib_8h.html b/TankControllerLib_8h.html
@@ -74,15 +74,13 @@ $(function() {
 </div><!--header-->
 <div class="contents">
 <div class="textblock"><code>#include &lt;Arduino.h&gt;</code><br />
-<code>#include &lt;string&gt;</code><br />
 </div><div class="textblock"><div class="dynheader">
 Include dependency graph for TankControllerLib.h:</div>
 <div class="dyncontent">
 <div class="center"><img src="TankControllerLib_8h__incl.png" border="0" usemap="#asrc_2TankControllerLib_8h" alt=""/></div>
 <map name="src_2TankControllerLib_8h" id="asrc_2TankControllerLib_8h">
-<area shape="rect" title=" " alt="" coords="9,5,165,32"/>
-<area shape="rect" title=" " alt="" coords="5,80,81,107"/>
-<area shape="rect" title=" " alt="" coords="105,80,160,107"/>
+<area shape="rect" title=" " alt="" coords="5,5,161,32"/>
+<area shape="rect" title=" " alt="" coords="45,80,121,107"/>
 </map>
 </div>
 </div><div class="textblock"><div class="dynheader">
@@ -125,7 +123,7 @@ Macros</h2></td></tr>
       </table>
 </div><div class="memdoc">
 
-<p class="definition">Definition at line <a class="el" href="TankControllerLib_8h_source.html#l00005">5</a> of file <a class="el" href="TankControllerLib_8h_source.html">TankControllerLib.h</a>.</p>
+<p class="definition">Definition at line <a class="el" href="TankControllerLib_8h_source.html#l00004">4</a> of file <a class="el" href="TankControllerLib_8h_source.html">TankControllerLib.h</a>.</p>
 
 </div>
 </div>

diff --git a/TankControllerLib_8cpp.html b/TankControllerLib_8cpp.html
@@ -81,12 +81,11 @@ Include dependency graph for TankControllerLib.cpp:</div>
 <div class="dyncontent">
 <div class="center"><img src="TankControllerLib_8cpp__incl.png" border="0" usemap="#asrc_2TankControllerLib_8cpp" alt=""/></div>
 <map name="src_2TankControllerLib_8cpp" id="asrc_2TankControllerLib_8cpp">
-<area shape="rect" title=" " alt="" coords="31,5,202,32"/>
-<area shape="rect" href="TankControllerLib_8h.html" title=" " alt="" coords="20,229,155,256"/>
-<area shape="rect" href="MainMenu_8h.html" title=" " alt="" coords="46,80,187,107"/>
-<area shape="rect" href="UIState_8h.html" title=" " alt="" coords="125,155,202,181"/>
-<area shape="rect" title=" " alt="" coords="5,304,81,331"/>
-<area shape="rect" title=" " alt="" coords="105,304,160,331"/>
+<area shape="rect" title=" " alt="" coords="17,5,187,32"/>
+<area shape="rect" href="TankControllerLib_8h.html" title=" " alt="" coords="5,229,140,256"/>
+<area shape="rect" href="MainMenu_8h.html" title=" " alt="" coords="31,80,173,107"/>
+<area shape="rect" href="UIState_8h.html" title=" " alt="" coords="110,155,187,181"/>
+<area shape="rect" title=" " alt="" coords="35,304,111,331"/>
 </map>
 </div>
 </div>

diff --git a/MainMenu_8h.html b/MainMenu_8h.html
@@ -79,11 +79,10 @@ Include dependency graph for MainMenu.h:</div>
 <div class="dyncontent">
 <div class="center"><img src="MainMenu_8h__incl.png" border="0" usemap="#asrc_2UIState_2MainMenu_8h" alt=""/></div>
 <map name="src_2UIState_2MainMenu_8h" id="asrc_2UIState_2MainMenu_8h">
-<area shape="rect" title=" " alt="" coords="6,5,169,32"/>
+<area shape="rect" title=" " alt="" coords="5,5,168,32"/>
 <area shape="rect" href="TankControllerLib_8h.html" title=" " alt="" coords="15,155,159,181"/>
-<area shape="rect" href="UIState_8h.html" title=" " alt="" coords="87,80,165,107"/>
-<area shape="rect" title=" " alt="" coords="5,229,81,256"/>
-<area shape="rect" title=" " alt="" coords="105,229,160,256"/>
+<area shape="rect" href="UIState_8h.html" title=" " alt="" coords="87,80,164,107"/>
+<area shape="rect" title=" " alt="" coords="49,229,125,256"/>
 </map>
 </div>
 </div><div class="textblock"><div class="dynheader">

diff --git a/UIState_8h.html b/UIState_8h.html
@@ -78,10 +78,9 @@ Include dependency graph for UIState.h:</div>
 <div class="dyncontent">
 <div class="center"><img src="UIState_8h__incl.png" border="0" usemap="#asrc_2UIState_2UIState_8h" alt=""/></div>
 <map name="src_2UIState_2UIState_8h" id="asrc_2UIState_2UIState_8h">
-<area shape="rect" title=" " alt="" coords="13,5,161,32"/>
-<area shape="rect" href="TankControllerLib_8h.html" title=" " alt="" coords="15,80,159,107"/>
-<area shape="rect" title=" " alt="" coords="5,155,81,181"/>
-<area shape="rect" title=" " alt="" coords="105,155,160,181"/>
+<area shape="rect" title=" " alt="" coords="5,5,153,32"/>
+<area shape="rect" href="TankControllerLib_8h.html" title=" " alt="" coords="7,80,151,107"/>
+<area shape="rect" title=" " alt="" coords="41,155,117,181"/>
 </map>
 </div>
 </div><div class="textblock"><div class="dynheader">

diff --git a/SetPHSetPoint_8h.html b/SetPHSetPoint_8h.html
@@ -81,8 +81,7 @@ Include dependency graph for SetPHSetPoint.h:</div>
 <area shape="rect" title=" " alt="" coords="5,5,197,32"/>
 <area shape="rect" href="UIState_8h.html" title=" " alt="" coords="63,80,140,107"/>
 <area shape="rect" href="TankControllerLib_8h.html" title=" " alt="" coords="29,155,173,181"/>
-<area shape="rect" title=" " alt="" coords="19,229,95,256"/>
-<area shape="rect" title=" " alt="" coords="119,229,174,256"/>
+<area shape="rect" title=" " alt="" coords="63,229,139,256"/>
 </map>
 </div>
 </div><div class="textblock"><div class="dynheader">

diff --git a/MainMenu_8cpp.html b/MainMenu_8cpp.html
@@ -82,8 +82,7 @@ Include dependency graph for MainMenu.cpp:</div>
 <area shape="rect" href="MainMenu_8h.html" title=" " alt="" coords="151,80,243,107"/>
 <area shape="rect" href="UIState_8h.html" title=" " alt="" coords="82,155,159,181"/>
 <area shape="rect" href="TankControllerLib_8h.html" title=" " alt="" coords="86,229,230,256"/>
-<area shape="rect" title=" " alt="" coords="76,304,152,331"/>
-<area shape="rect" title=" " alt="" coords="176,304,231,331"/>
+<area shape="rect" title=" " alt="" coords="120,304,196,331"/>
 </map>
 </div>
 </div>
